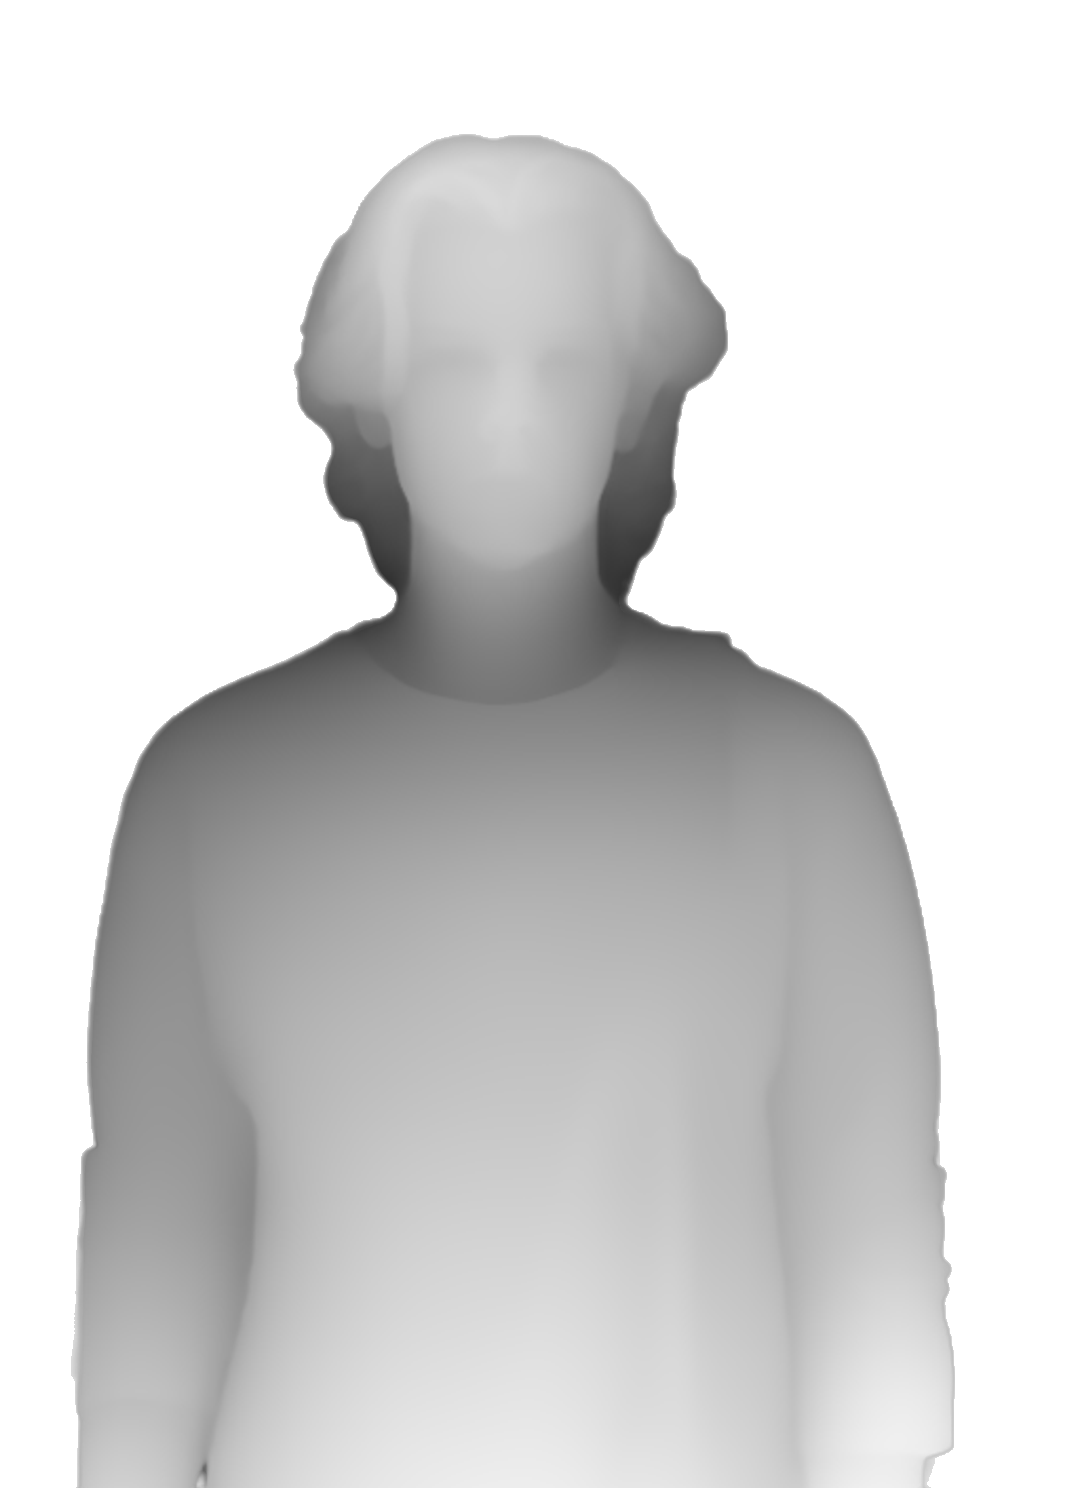
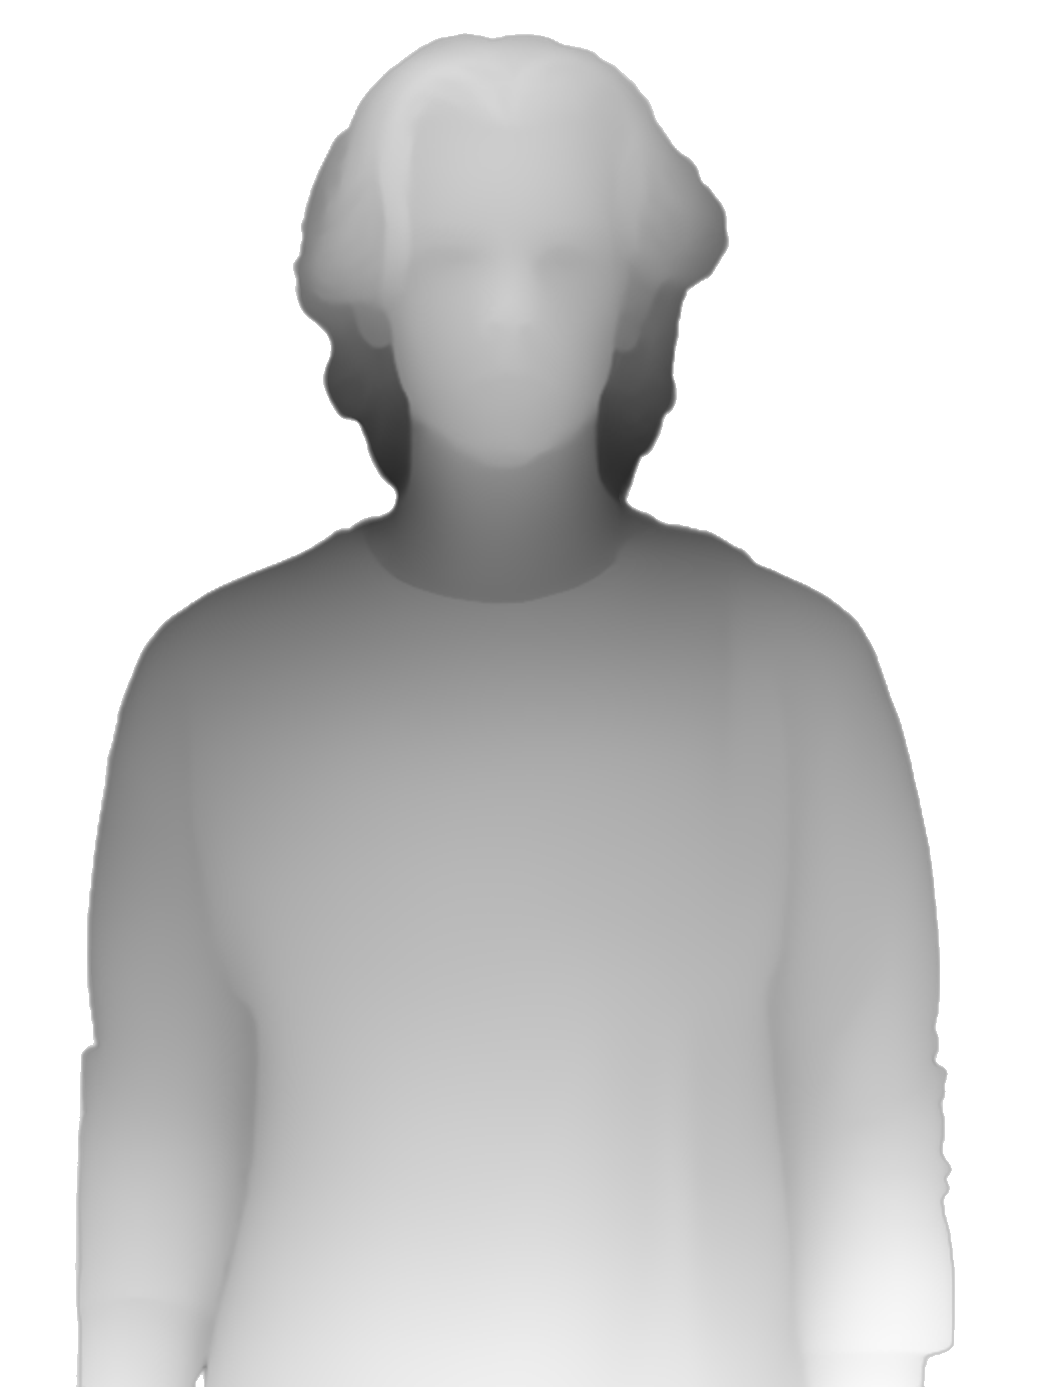
ipad support

Changed region(s): [[0.0923, 0.0, 0.9231, 1.0], [0.0615, 0.682, 0.0923, 1.0], [0.1846, 0.9611, 0.2154, 1.0]]

diff --git a/css/style.css b/css/style.css
@@ -342,9 +342,9 @@ body.page{min-height:100vh}
   display:flex;align-items:center;gap:.65rem;white-space:nowrap;
   font:500 clamp(.9rem,.75rem + .45vw,1.15rem)/1.1 var(--display);color:var(--paper);
 }
-.contact-list{display:grid;gap:1.5rem;justify-items:start;text-align:left}
-.contact-list li,.contact-list a{display:flex;align-items:center;gap:.65rem;white-space:nowrap}
-.contact-list li{font:500 clamp(.9rem,.75rem + .45vw,1.15rem)/1.1 var(--display);color:var(--paper)}
+.contact-list{display:grid;gap:1.5rem;justify-items:center;text-align:center}
+.contact-list li,.contact-list a{display:flex;align-items:center;justify-content:center;gap:.65rem;white-space:nowrap}
+.contact-list li{font:500 clamp(.9rem,.75rem + .45vw,1.15rem)/1.1 var(--display);color: color(srgb 0.666667 0.729412 0.772549 / 0.7)}
 .contact-list a{transition:color .2s}
 .contact-list a .ico{transition:translate .2s}
 .contact-list a:hover,.contact-list a:focus-visible{color:var(--neon)}
@@ -572,6 +572,22 @@ img.ico{display:block;background:none;border-radius:0;object-fit:contain}
   .menu{flex:1;justify-content:space-between}
 }
 
+/* back card tab: phones and tablets (the tab is hidden from 64rem up) */
+@media (max-width:63.99rem){
+  .backbox>.tab{
+    --tab-h:calc(clamp(1.3rem,2.6vw,2.4rem) * .8); 
+    --panel:color-mix(in srgb,var(--paper) 16%,#0f0f0f);
+    --tab-ring:color-mix(in srgb,var(--paper) 30%,var(--panel));
+    width:clamp(5.5rem,16vw,7rem);
+    height:calc(var(--tab-h) + var(--bw) + 1px);
+    border-radius:0;
+    filter:
+      drop-shadow(var(--bw) 0 0 var(--tab-ring))
+      drop-shadow(calc(-1 * var(--bw)) 0 0 var(--tab-ring))
+      drop-shadow(0 calc(-1 * var(--bw)) 0 var(--tab-ring));
+  }
+}
+
 @media (prefers-reduced-motion:reduce){
   .menu a::before,.menu a::after{transition:none;animation:none !important}
   .menu a::before,.menu-line{transition:none}
@@ -735,10 +751,15 @@ img.ico{display:block;background:none;border-radius:0;object-fit:contain}
   /* bottom bar: the notches now come from the mask, so it becomes plain text on the lime */
   .legal p,.legal nav{margin:0;padding:0;height:var(--bar-h);background:none}
   .legal>*::after{display:none}
-  .legal nav{gap:1.5rem}
-  
-  .legal{--lx:0.7rem;  --ly:-1.6rem;     /* left text:  x = inward from left corner, y = down */
-         --rx:.5rem; --ry:-1.6rem}     /* right text: x = inward from right corner, y = down */
+    /* everything below is in px at a 1920px-wide screen and scales with the width */
+  .legal{
+    --min-font:11;                                                  /* smallest text size in px */
+    --s:max(calc(100vw / 1920), calc(var(--min-font) / 15.2 * 1px));
+    font-size:calc(var(--s) * 15.2);
+    --lx:calc(var(--s) * 11.2);  --ly:calc(var(--s) * -25.6);   /* version text: x inward, y down */
+    --rx:calc(var(--s) * 8);     --ry:calc(var(--s) * -25.6);   /* back to top:  x inward, y down */
+  }
+  .legal nav{gap:calc(var(--s) * 24)}
   .legal p  {translate:var(--lx) var(--ly)}
   .legal nav{translate:calc(-1 * var(--rx)) var(--ry)}
 
@@ -909,6 +930,12 @@ html::-webkit-scrollbar-thumb:active{
           mask:radial-gradient(circle at 100% 0,transparent calc(var(--tab-h) - .5px),#000 var(--tab-h));
 }
 @media (max-width:47.5rem){
+  .contact-list{
+    justify-items:center;
+    text-align:center;
+  }
+  .contact-list li{justify-content:center}
+
   .grid{
     --slide:1.5rem;
     row-gap:calc(var(--gap) + var(--slide));
@@ -993,4 +1020,21 @@ html::-webkit-scrollbar-thumb:active{
 .tab::after{
   left:calc(100% - 1px);
   clip-path:polygon(0 0,10% 2.8%,20% 10.4%,30% 21.6%,40% 35.2%,50% 50%,60% 64.8%,70% 78.4%,80% 89.6%,90% 97.2%,100% 100%,0 100%);
+}
+
+@media (min-width:48rem) and (max-width:63.99rem){
+  .disclaimer{margin-top:1.0rem}
+  .panel{min-height:calc(clamp(40rem,48vw,62rem) * .667)}
+  .headline{
+    font-size:clamp(2rem,.8rem + 4.6vw,4rem);
+  }
+
+  .links .contact-list{
+    justify-items:center;
+    text-align:center;
+  }
+  .links .contact-list li,
+  .links .contact-list a{
+    justify-content:center;
+  }
 }

diff --git a/about.html b/about.html
@@ -34,6 +34,7 @@
   <!-- same markup as the footer panel on the home page -->
   <section class="outro" id="about">
     <div class="backbox">
+      <span class="tab" aria-hidden="true"></span>
       <div class="back" aria-hidden="true"></div>
       <div class="back-text">
         <h3>Who I Am</h3>
